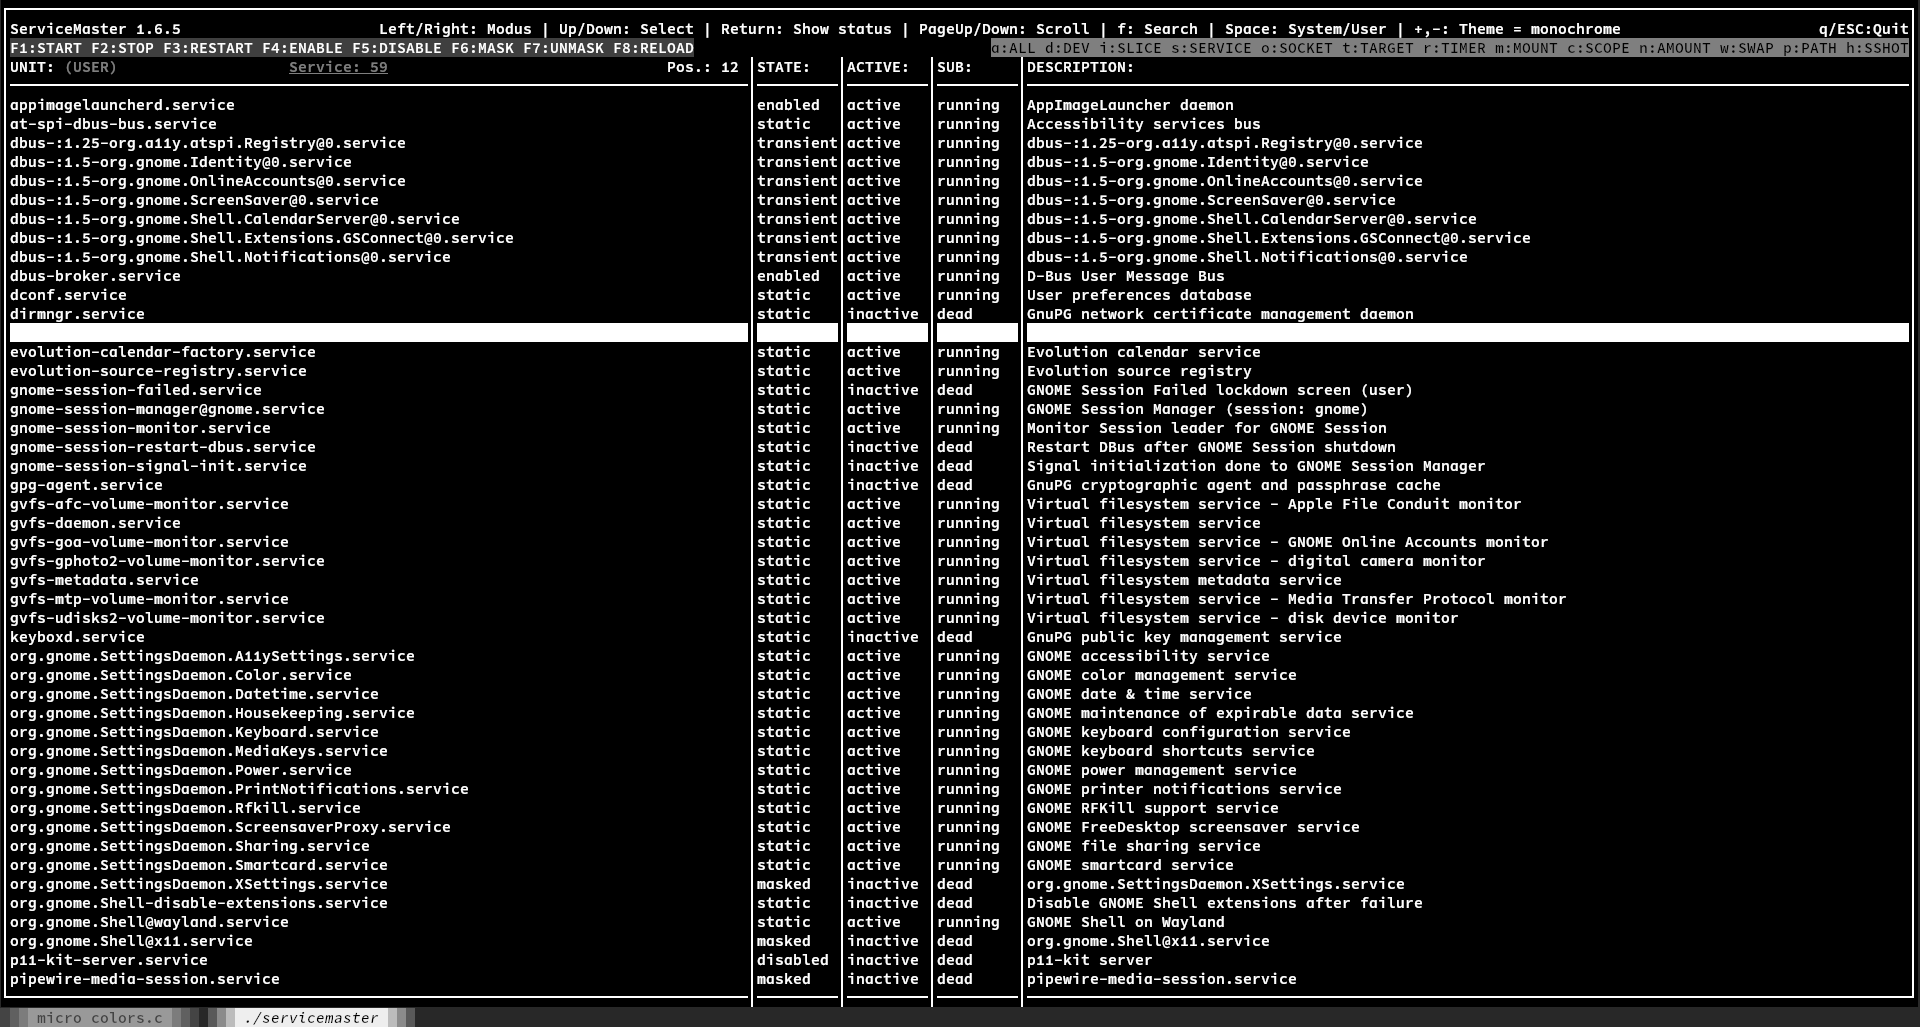
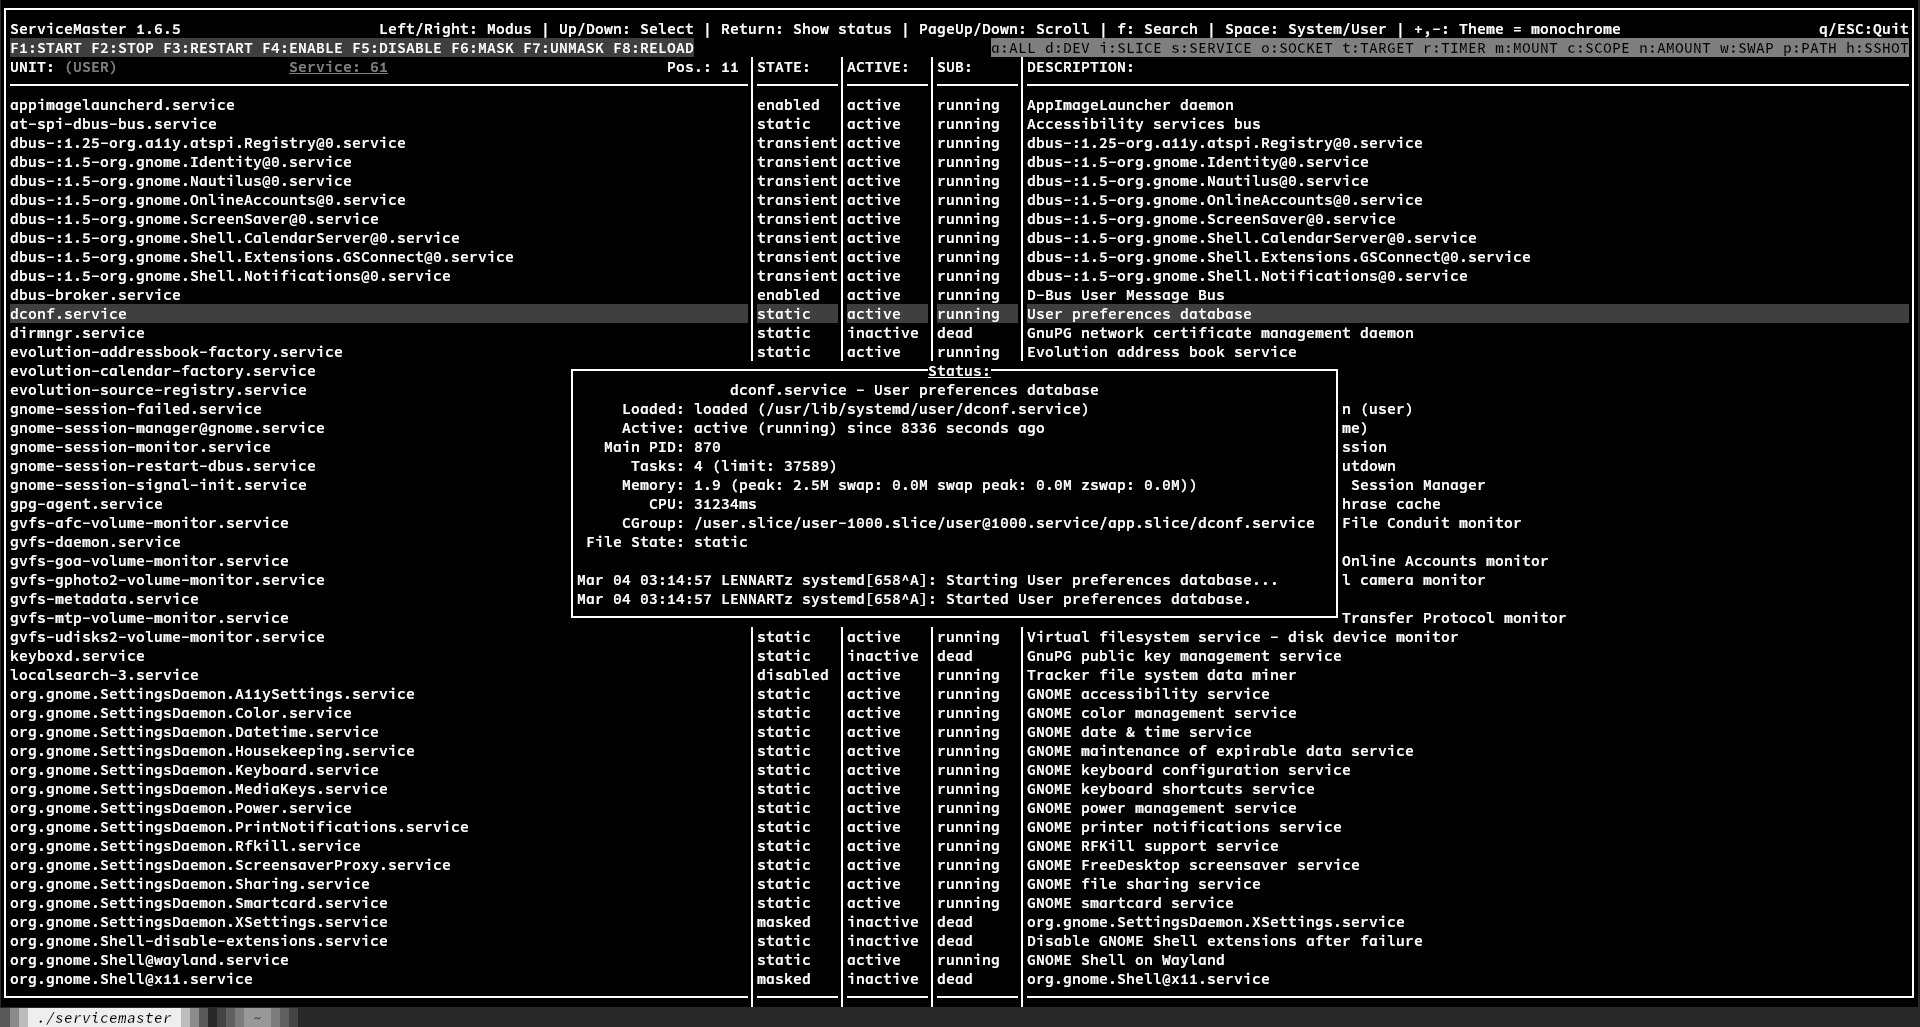
Fixed 'Monochrome' colorscheme. Better colorscheme handling, no more white on white selection. Updated screenshot.

Changed region(s): [[0.0, 0.1558, 1.0, 1.0], [0.375, 0.9036, 0.4375, 0.9348], [0.4062, 0.6543, 0.4375, 0.6855]]

diff --git a/display.c b/display.c
@@ -301,7 +301,7 @@ static void display_services(Bus *bus)
     int spc = headerrow + 2;
     max_rows = maxy - spc - 1;
 
-    // Zähle zuerst die Services im aktuellen Modus
+    // Count the total number of services of the current type
     for (int i = 0;; i++)
     {
         svc = service_nth(bus, i);
@@ -330,7 +330,8 @@ static void display_services(Bus *bus)
 
         if (row == position)
         {
-            attron(COLOR_PAIR(8));
+            // Monochrome theme needs a different color pair
+            colorscheme == MONOCHROME ? attron(COLOR_PAIR(9)) : attron(COLOR_PAIR(8));
             attron(A_BOLD);
         }
 
@@ -338,7 +339,8 @@ static void display_services(Bus *bus)
 
         if (row == position)
         {
-            attroff(COLOR_PAIR(8));
+            // Monochrome theme needs a different color pair
+            colorscheme == MONOCHROME ? attroff(COLOR_PAIR(9)) : attroff(COLOR_PAIR(8));
             attroff(A_BOLD);
         }
 
